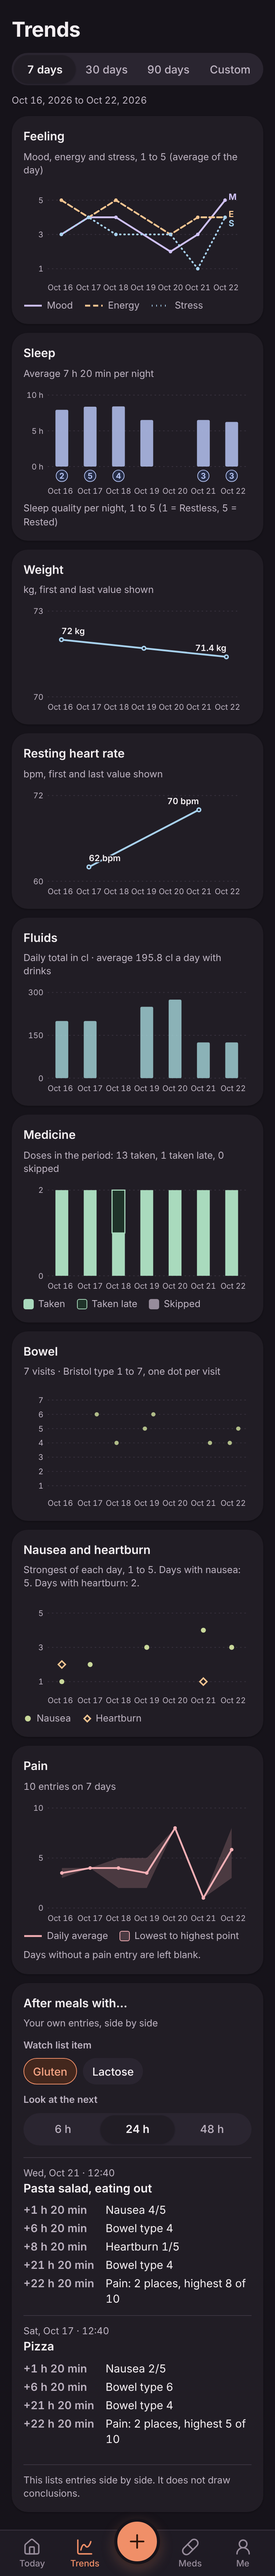
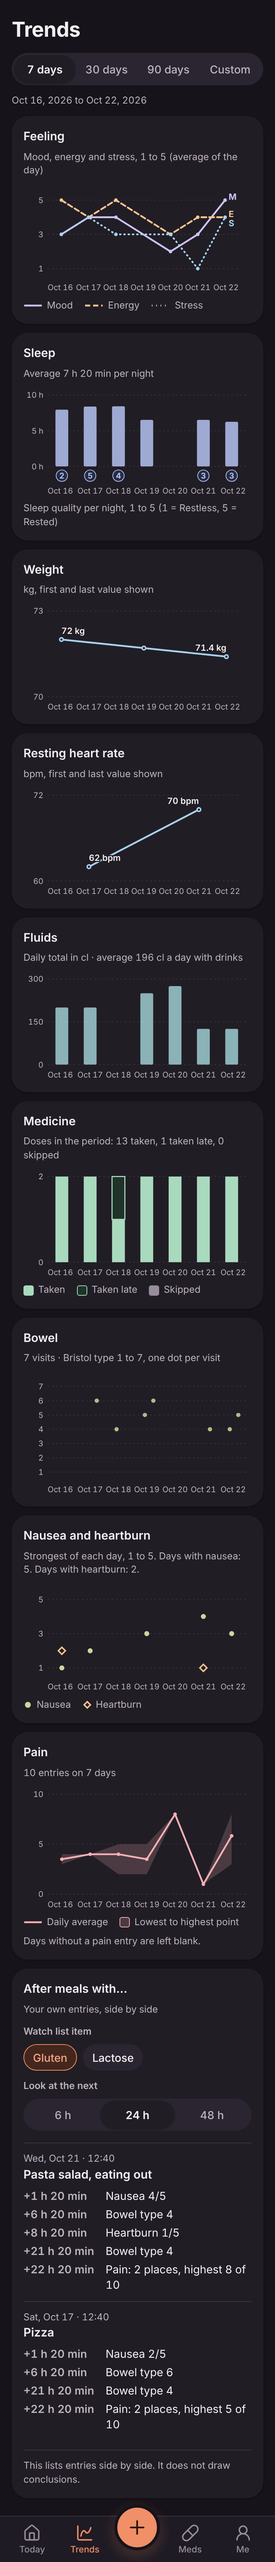
fix(trends): round the fluids average to whole cl
Claude-Session: https://claude.ai/code/session_0113psJp7HwLdrncjrcTtuKa

diff --git a/src/routes/trends/+page.svelte b/src/routes/trends/+page.svelte
@@ -317,7 +317,7 @@
 
 		{#if showFluids}
 			<Card title={t('trends.fluids.title')}>
-				<p class="sub">{t('trends.fluids.sub', { avg: num(mlToCl(fluids.averageMl ?? 0)) })}</p>
+				<p class="sub">{t('trends.fluids.sub', { avg: num(Math.round(mlToCl(fluids.averageMl ?? 0))) })}</p>
 				<TrendChart
 					{days}
 					yMin={0}
